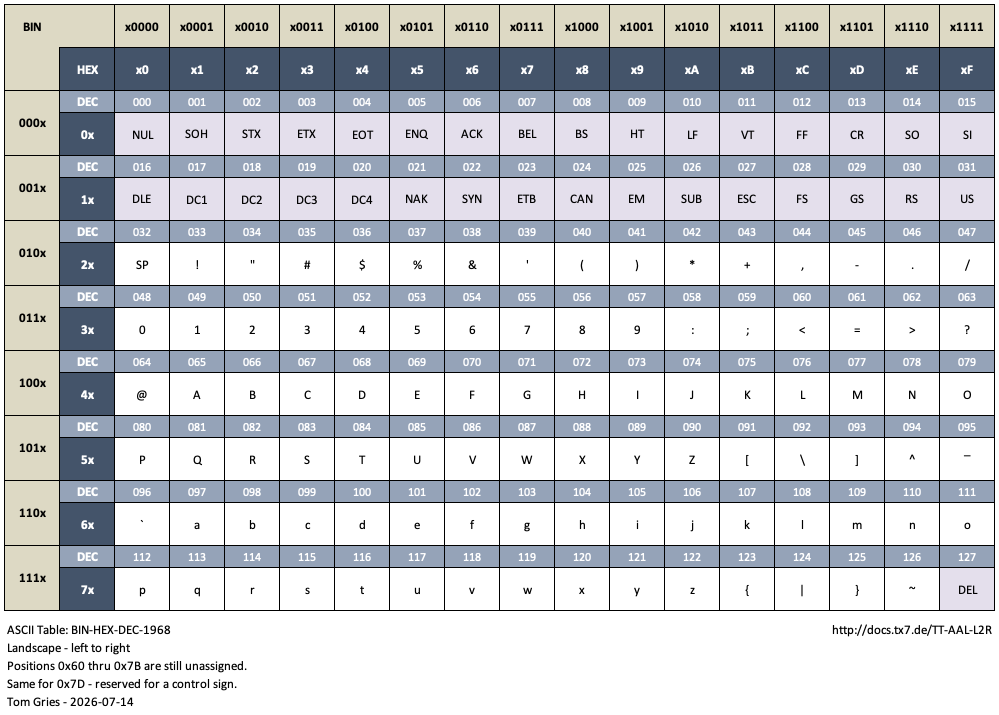
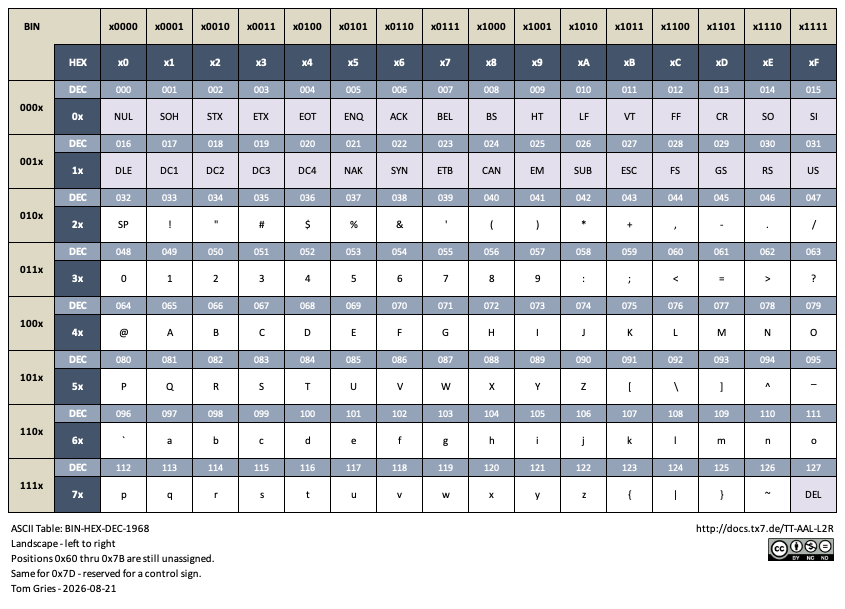
CC BY-NC-ND License added

Changed region(s): [[0.0, 0.0, 1.0, 0.9984]]

diff --git a/_Hilfen und Tools/ASCII Tabellen/README.md b/_Hilfen und Tools/ASCII Tabellen/README.md
@@ -37,7 +37,7 @@ Jede Tabelle stellt den druckbaren ASCII-Zeichensatz in unterschiedlichen Zahlen
 | A | Binär + Hex + Dezimal, Fassung von 1968<br>[TT-AAL-L2R](TT-AAL-L2R%20-%20ASCII%20table%20BIN-HEX-DEC-1968.png)<br>[TT-AAP-T2B](TT-AAP-T2B%20-%20ASCII%20table%20BIN-HEX-DEC-1968.png) |
 | B | Binär + Hex + Dezimal, Vergleich 1963 vs. 1968<br>[TT-ABL-L2R](TT-ABL-L2R%20-%20ASCII%20table%20BIN-HEX-DEC-1963+1968.png)<br>[TT-ABP-T2B](TT-ABP-T2B%20-%20ASCII%20table%20BIN-HEX-DEC-1963+1968.png) |
 
-Zwei ergänzende Sonderblätter:
+Zwei ergänzende Tabellen:
 
 - **6th digit / Prefixe** – hebt Prefixe und sechste Stelle hervor.<br>[TT-APL-L2R](TT-APL-L2R%20-%20ASCII%20table%20BIN-HEX-DEC%20-%206th%20digit.png)
 - **für Medien** – eine speziell für Workshops erstellte Variante (zum Erklären und erarbeiten von weiteren Teilen).<br>[TT-AVL-L2R](TT-AVL-L2R%20-%20ASCII%20table%20BIN-HEX-DEC%20-%20for%20media.png)
@@ -90,7 +90,7 @@ Each table shows the printable ASCII character set in different number systems o
 | A | Binary + Hex + Decimal, 1968 edition<br>[TT-AAL-L2R](TT-AAL-L2R%20-%20ASCII%20table%20BIN-HEX-DEC-1968.png)<br>[TT-AAP-T2B](TT-AAP-T2B%20-%20ASCII%20table%20BIN-HEX-DEC-1968.png) |
 | B | Binary + Hex + Decimal, 1963 vs. 1968 comparison<br>[TT-ABL-L2R](TT-ABL-L2R%20-%20ASCII%20table%20BIN-HEX-DEC-1963+1968.png)<br>[TT-ABP-T2B](TT-ABP-T2B%20-%20ASCII%20table%20BIN-HEX-DEC-1963+1968.png) |
 
-Two additional special sheets:
+Two additional special tables:
 
 - **6th digit / prefixes** – highlights prefixes and the sixth digit.<br>[TT-APL-L2R](TT-APL-L2R%20-%20ASCII%20table%20BIN-HEX-DEC%20-%206th%20digit.png)
 - **for media** – a variant created specifically for workshops (for explaining and working through further parts).<br>[TT-AVL-L2R](TT-AVL-L2R%20-%20ASCII%20table%20BIN-HEX-DEC%20-%20for%20media.png)
